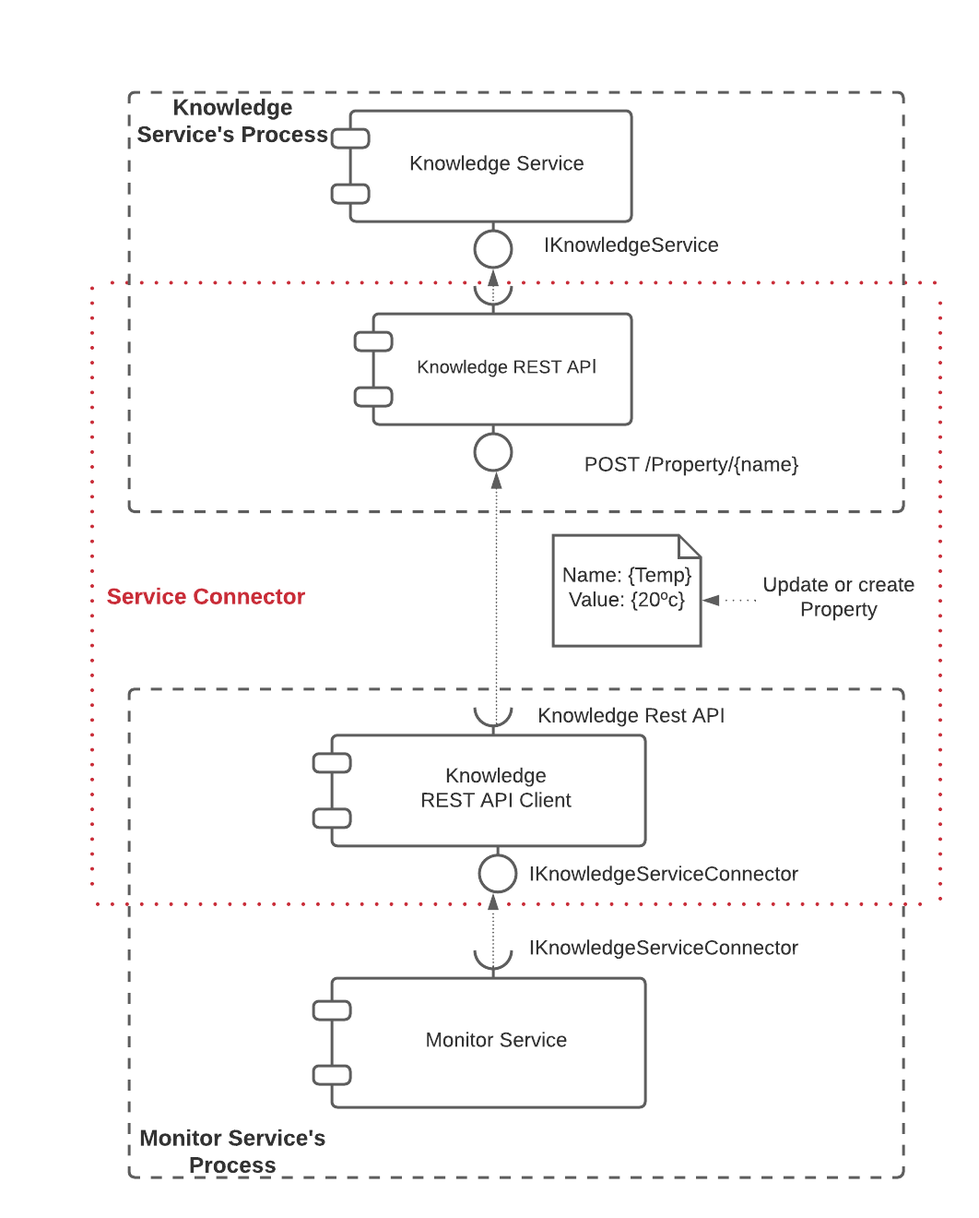
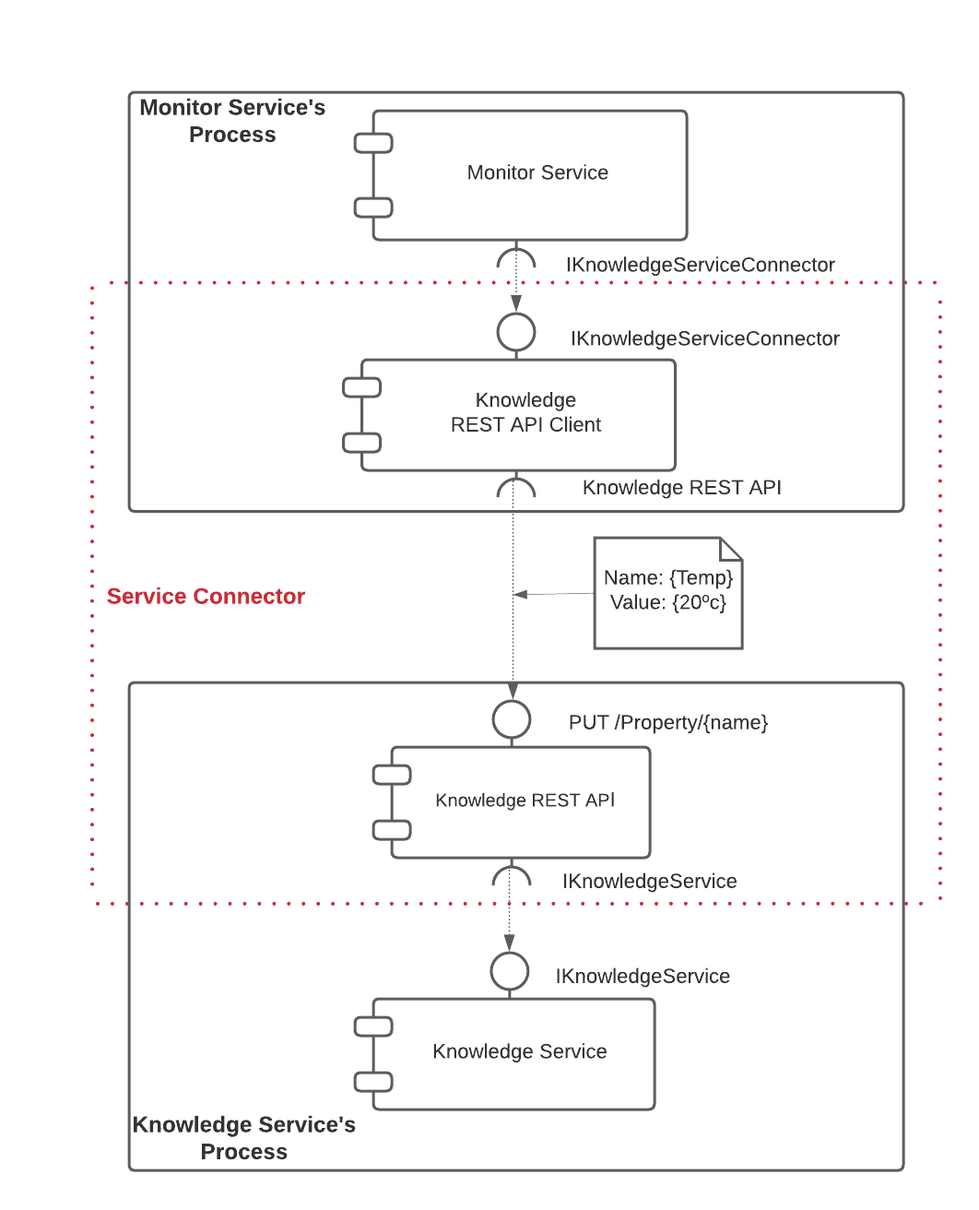
Revisar la sección de OPenAPI

diff --git a/docs/cap_diseño/diseño.tex b/docs/cap_diseño/diseño.tex
@@ -307,25 +307,27 @@ Ahora describiremos qué protocolo elegimos para cada mecanismo de comunicación
 
 \subsection{Peticiones síncronas}
 
-Comenzamos investigando las peticiones síncronas. Tomemos por ejemplo la comunicación entre el servicio de monitorización (\foreign{english}{monitoring service}) y el servicio de conocimiento (\foreign{english}{knowledge servic}). Recordemos que el servicio de conocimiento almacena todas las propiedades de adaptación. El resto de servicios del nivel del bucle necesitan consultarlas y actualizarlas durante su funcionamiento. En la figura \ref{fig:monitor-knowledge-initial} representamos inicialmente ambos componentes y un conector, sin especificar de qué tipo será.
+Comenzamos investigando el diseño de las peticiones síncronas. Tomemos por ejemplo la comunicación entre el servicio de monitorización (\foreign{english}{monitoring service}) y el servicio de conocimiento (\foreign{english}{knowledge servic}). Recordemos que el conocimiento almacena todas las propiedades de adaptación. El resto de servicios del nivel del bucle necesitan consultarlas y actualizarlas durante su funcionamiento. En la figura \ref{fig:monitor-knowledge-initial} representamos inicialmente ambos componentes y un conector, sin especificar de qué tipo será.
 
-% TODO: Cambiar por imagen de componentes, que ofrezcan y requieran interfaces.
-\begin{figure}[htb]
+% TODO: Centrar
+\begin{wrapfigure}{r}{0.38\linewidth}
   \centering
-  \includegraphics{cap_diseño/images/Monitor-Knowledge-Initial-Connector}
-  \caption{Representación inicial de la comunicación entre el servicio de monitorización y el de conocimiento. El conector no indica su tipo todavía.}
+  \vspace{10pt}
+  \includegraphics[scale=0.5]{cap_diseño/images/Monitor-Knowledge-Initial-Connector}
+  \caption{Representación inicial del conector entre el servicio de monitorización y el de conocimiento. De momento no indica más que la necesidad de comunicación.}
   \label{fig:monitor-knowledge-initial}
-\end{figure}
+  \vspace{2pt}
+\end{wrapfigure}
 
-El siguiente paso es identificar qué interacciones debe existir entre ambos componentes. En este caso, el servicio de monitorización debe contactar con el servicio de conocimiento para leer y actualizar el valor de las propiedades. Por tanto, existen operaciones de lectura y escritura de los datos.
+El siguiente paso consiste en identificar qué interacciones debe existir entre ambos componentes. En este caso, el servicio de monitorización debe poder leer y actualizar el valor de las propiedades. Por tanto, existen operaciones de lectura y escritura de los datos.
 
-Entre las cuatro opciones de tipos de conector podemos descartar inmediatamente la opción de GraphQL. Se trata de un conector más orientado a las consultas de datos. En nuestro caso, necesitamos ejecutar también escrituras. Aunque podría ser interesante para consultas más avanzadas, utilizar dos protocolos de comunicación en paralelo aumentaría la complejidad de la arquitectura.
+De entre los cuatro tipos de conectores, podemos descartar inmediatamente la opción de GraphQL. Se trata de un mecanismo más orientado a las consultas de datos. En nuestro caso, necesitamos ejecutar también escrituras. Aunque podríamos trabajar con dos protocolos de comunicación en paralelo, esto aumentaría la complejidad de la arquitectura. Además que el protocolo está más enfocado en consultas complejas. Como las propiedades se almacenan como pares clave - valor, sin relaciones, no lo consideramos necesario.
 
-También descartamos el \foreign{english}{broker} de mensajería. Como requerimos de lecturas de datos, nos convenía más recurrir al resto de patrones. Para obtener propiedades del conocimiento, resultaba más sencillo de implementar mediante comunicación síncrona.
+También descartamos emplear el \foreign{english}{broker} de mensajería. Como requerimos de lecturas de datos, nos convenía más recurrir a otros patrones. Para obtener propiedades del conocimiento, resultaba más sencillo de implementar mediante comunicación síncrona.
 
-Finalmente, hay que tener en cuenta que una de nuestras prioridades es la \textbf{interoperabilidad}: esta API estará expuesta ''hacia fuera'', a una capa más externa. Por tanto, tendremos clientes que nos contactarán. Potencialmente, de terceros. Prima por tanto la compatibilidad. Descartamos entonces RPC, dado que nos acoplaría a una tecnología concreta y a APIs no estándares.
+Finalmente, teníamos que decidir entre usar REST o RPC. Para tomar la decisión decidimos priorizar la \textbf{interoperabilidad}. Este componente estará expuesto ''hacia fuera'': expondrá su interfaz a la capa superior. Cualquier elemento que se encuentre en ella, podrá contactarlo. Potencialmente, estos podrían ser desarrollados por terceros. Para maximizar la compatibilidad, descartamos entonces RPC. Este protocolo nos hubiera acoplado a una tecnología concreta y a APIs no estándares.
 
-Nos terminamos decantando por el conector REST sobre HTTP. Implementamos ambas funciones mediante \foreign{english}{endpoints} HTTP. Su especificación se detalla a continuación en las tablas \ref{tab:especificacion-get-property} y \ref{tab:especificacion-put-property}.
+Nos terminamos decantando entonces por el conector REST. Implementamos ambas funciones de lectura y escritura mediante \foreign{english}{endpoints} HTTP. Su especificación se detalla a continuación en las tablas \ref{tab:especificacion-get-property} y \ref{tab:especificacion-put-property}. En ellas se incluye la operación y la ruta sobre que aplica.
 
 \newsavebox\getpropertyrequestbox
 \begin{lrbox}{\getpropertyrequestbox}
@@ -453,156 +455,19 @@ Una vez definida la interfaz que expondrá el servicio de conocimiento, nos qued
   \vspace{5pt}
 \end{wrapfigure}
 
-OpenAPI\footnote{Página oficial: \url{https://www.openapis.org/}} es un lenguaje estándar para describir APIs RESTful. Nos permite describir de forma estructurada las operaciones que ofrece un servicio manteniéndose agnóstico a su implementación. Esta descripción ayuda tanto a humanos como a computadoras a descubrir y utilizar las funcionalidades de la API. La OpenAPI Initiative (OAI) dirige el proyecto bajo el manto de la \emph{Linux Foundation}.
+OpenAPI\footnote{Página oficial: \url{https://www.openapis.org/}} es un lenguaje estándar para describir APIs REST. Nos permite especificar de forma estructurada las operaciones que ofrece un servicio, manteniéndose agnóstico a su implementación. Esta descripción ayuda tanto a humanos como a computadoras a descubrir y utilizar las funcionalidades de la API.\cite{openapi_initiativeOpenAPISpecificationV3} La OpenAPI Initiative (OAI) dirige el proyecto bajo el manto de la \emph{Linux Foundation}.
 
-Un documento OpenAPI describe el funcionamiento de la API y el conjunto de recursos que la componen. Describe las operaciones HTTP que podemos ejecutar sobre estos recursos, incluyendo las estructuras de datos que recibe o envía y los códigos de respuesta. Estos códigos indican al cliente el resultado de la ejecución de la operación. \cite{openapi_initiativeOpenAPISpecificationV3} Más adelante mostraremos un ejemplo, con el \textcolor{red}{fragmento} \ref{ls:openapi-get}.
+Un documento OpenAPI describe el funcionamiento de la API y el conjunto de recursos que la componen. Especifica las operaciones HTTP que podemos ejecutar sobre estos recursos y las estructuras de datos de entrada o salida. También se incluyen los códigos de respuesta de HTTP: códigos indican al cliente el resultado de la ejecución de la operación. \cite{openapi_initiativeOpenAPISpecificationV3} Más adelante, en el fragmento \ref{ls:openapi-get}, mostraremos un ejemplo de un documento típico.
 
-La especificación puede escribirse manualmente o puede generarse a partir de una implementación existente. Así, podemos desarrollar nuestro servicio en un determinado lenguaje y obtener su descripción en OpenAPI. Además, podemos aprovecharla en varios ámbitos del desarrollo gracias a la variedad de herramientas existentes: generación de documentación, generación de casos de prueba, identificar cambios incompatibles, etc. \cite{westerveldChapterOpenAPIAPI2021}
+La especificación puede escribirse manualmente o puede generarse a partir de una implementación existente. Así, podemos desarrollar primero nuestro servicio en un determinado lenguaje y obtener después su descripción en OpenAPI. Además, podemos aprovecharla en varios ámbitos del desarrollo gracias a la  \textbf{variedad de herramientas} existentes: generación de documentación, generación de casos de prueba, identificar cambios incompatibles, etc. \cite{westerveldChapterOpenAPIAPI2021}
 
-Uno de los casos de uso más interesantes es la generación de código a partir de la definición. Existen una serie de librerías\footnote{\url{https://github.com/OpenAPITools/openapi-generator}} capaces de generar clientes o servidores conforme a la especificación. Ofrecen soporte a una gran variedad de lenguajes: Java, C\#, JavaScript\dots En el caso del cliente, actúa como un proxy que nos abstrae de la lógica de comunicación con el servidor. Similar a lo descrito en el apartado de RPC.
+Uno de los casos de uso más interesantes es la \textbf{generación de código}. Existen una serie de librerías\footnote{\url{https://github.com/OpenAPITools/openapi-generator}} capaces de generar clientes o servidores conforme a la especificación. Ofrecen soporte a una gran variedad de lenguajes: Java, C\#, JavaScript... En el caso del \textbf{cliente}, actúa como un proxy que nos abstrae de la lógica de comunicación con el servidor. Similar a lo ya descrito en el apartado de RPC.
 
-Para el desarrollo de este trabajo, nos interesaba especialmente debido a las diferencias tecnológicas existentes: el bucle MAPE-K original estaba desarrollado en Java, pero el prototipo se desarrolló con el lenguaje C\# usando el \foreign{english}{framework} ASP.NET Core. Se tomó esta decisión para reducir el tiempo de aprendizaje y centrar los esfuerzos en la definición de la arquitectura del sistema.
-
-Gracias a la generación de código, se podría obtener la especificación del prototipo y generar los clientes o servidores en cualquier lenguaje soportado. Java incluido. El bucle MAPE-K original después podría ser refactorizado usando este código autogenerado.
-
-A continuación explicaremos cómo utilizamos OpenAPI. Para ello, continuaremos con el ejemplo del servicio de conocimiento que hemos descrito a lo largo de esta sección. Nos centraremos en la implementación de la operación para obtener una propiedad del conocimiento, descrita en la tabla \ref{tab:especificacion-get-property}.
-
-En el \textcolor{red}{fragmento} \ref{ls:csharp-get} podemos observar que se trata de un método C\# llamado \emph{GetProperty}. Su implementación es sencilla: busca en un diccionario la propiedad cuyo nombre se le pasa por parámetro. Si la encuentra, devuelve su valor con un código 200 OK. En caso contrario, devuelve un código de error que describe el motivo (formato de la petición incorrecto o no se ha encontrado la propiedad).
-
-Aparte de la implementación, podemos comprobar que el método cuenta con una serie de comentarios (líneas 1-8) y atributos (10-12). Esta documentación describe qué hace el método, sus entradas y posibles respuestas. OpenAPI es capaz de utilizarlos para generar una especificación más completa. Por tanto, resulta muy recomendable incluirlos.
-
-\begin{lstlisting}[language={[Sharp]C},caption={Implementación del método GetProperty decorado para generar la especificación OpenAPI.},captionpos=b, label=ls:csharp-get]
-/// <summary>
-///    Gets a property given its name.
-/// </summary>
-/// <param name="propertyName"> The name of the property to find. </param>
-/// <returns> An IActionResult with result of the query. </returns>
-/// <response code="200"> The property was found. Returns the value of the property. </response>
-/// <response code="404"> The property was not found. </response>
-/// <response code="400"> There was an error with the provided arguments. </response>
-[HttpGet("{propertyName}")]
-[ProducesResponseType(typeof(PropertyDTO), StatusCodes.Status200OK)]
-[ProducesResponseType(StatusCodes.Status404NotFound)]
-[ProducesResponseType(StatusCodes.Status400BadRequest)]
-public IActionResult GetProperty([FromRoute]string propertyName)
-{
-    if (string.IsNullOrEmpty(propertyName))
-    {
-        return BadRequest();
-    }
-
-    bool foundProperty = properties.TryGetValue(propertyName, out PropertyDTO property);
-
-    if (!foundProperty)
-    {
-        return NotFound();
-    }
-
-    return Ok(property);
-}
-\end{lstlisting}
-
-Haciendo uso de las librerías de OpenAPI, generamos la especificación a partir del servicio de conocimiento. En el \textcolor{red}{fragmento} \ref{ls:openapi-get}, podemos ver cómo se describe la operación en este estándar:
-
-\begin{lstlisting}[language=python,caption={Especificación OpenAPI del método para obtener una propiedad del conocimiento (\lstinline{GetProperty}).},captionpos=b, label=ls:openapi-get]
-"paths": {
-  "/Property/{propertyName}": {
-    "get": {
-      "tags": [
-        "Property"
-      ],
-      "summary": "Gets a property given its name.",
-      "parameters": [
-        {
-          "name": "propertyName",
-          "in": "path",
-          "description": "The name of the property to find.",
-          "required": true,
-          "schema": {
-            "type": "string"
-          }
-        }
-      ],
-      "responses": {
-        "200": {
-          "description": "The property was found. Returns the value of the property.",
-          "content": {
-            "application/json": {
-              "schema": {
-                "$ref": "#/components/schemas/PropertyDTO"
-              }
-            }
-          }
-        },
-        "404": {
-          "description": "The property was not found.",
-        },
-        "400": {
-          "description": "There was an error with the provided arguments.",
-        }
-      }
-    }
-  }
-\end{lstlisting}
-
-Podemos apreciar que en la ruta \emph{/Property/\{propertyName\}} está disponible una operación de tipo \emph{GET}. Esta acepta determinados parámetros y describe unas posibles respuestas. También aparece una referencia a otro esquema (línea 25), que representa la estructura de la respuesta en ese caso concreto. También aparecen los comentarios opcionales que indicamos en el \textcolor{red}{fragmento} \ref{ls:csharp-get}. Encontramos grandes similitudes con la especificación presentada en la tabla \ref{tab:especificacion-get-property}.
-
-%% TODO: ¿Eliminar?
-\textcolor{red}{Los convenios de los generadores de código de OpenAPI pueden no ser de nuestro agrado. Por ejemplo, pueden resultar muy verbosos o puede resultar muy pesado trabajar con DTOs directamente. Por suerte, tenemos varias alternativas para solucionarlo: Modificar las plantillas de generación de código. Al ser de código abierto, podríamos modificar las existentes o crear nuestras propias plantillas con nuestros propios convenios.}
-
-\textcolor{red}{Otra opción, más fácil de implementar, es desarrollar código por encima del API Client generado. Es el caso del servicio de Análisis. Como trabajar con DTOs directamente se hacía muy pesado (fragmento \ref{ls:analysis-api-client-original}), optamos por implementar un \foreign{english}{builder} de peticiones. Esto nos permitia configurar la petición de una forma más descriptiva para el usuario (fragmento \ref{ls:analysis-api-cliente-request-builder}):}
-
-\begin{lstlisting}[language={[Sharp]C},caption={Implementación de petición original. Trabajar con DTOs era muy verboso.},captionpos=b, label=ls:analysis-api-client-original]
-var changeRequests = new List<ServiceConfigurationDTO>
-{
-  new()
-  {
-    ServiceName = ClimatisationAirConditionerConstants.AppName,
-    IsDeployed = true,
-    ConfigurationProperties = new List<ConfigurationProperty>()
-    {
-      new()
-      {
-          Name = ClimatisationAirConditionerConstants.Configuration.Mode,
-          Value = AirConditioningMode.Cooling.ToString(),
-      },
-    },
-  },
-};
-
-var symptoms = new List<SymptomDTO> { new(SymptomName, "true") };
-
-var systemConfigurationChangeRequest = new SystemConfigurationChangeRequestDTO()
-{
-  ServiceConfiguration = changeRequests,
-  Symptoms = symptoms,
-  Timestamp = DateTime.UtcNow,
-};
-
-await _systemApi.SystemRequestChangePostAsync(
-  systemConfigurationChangeRequest,
-  CancellationToken.None);
-\end{lstlisting}
-
-
-\begin{lstlisting}[language={[Sharp]C},caption={Implementación de la misma petición siguiendo el patrón \emph{builder}.},captionpos=b, label=ls:analysis-api-cliente-request-builder]
-await _systemService.RequestChangeAsync(changeRequest =>
-{
-  changeRequest
-    .ForSymptom(TemperatureGreaterThanHotThreshold)
-    .WithService(ClimatisationAirConditionerConstants.AppName, service =>
-    {
-      service.MustBePresent()
-        .WithParameter(
-          ClimatisationAirConditionerConstants.Configuration.Mode,
-          AirConditioningMode.Cooling.ToString());
-    });
-});
-\end{lstlisting}
+Para el desarrollo de este trabajo, nos interesaba especialmente debido a las posibles diferencias tecnológicas entre microservicios. Cada uno de ellos puede implementarse utilizando distintos lenguajes o librerias dependiendo de la funcionalidad a ofrecer. Gracias a la generación de código, se podría obtener la especificación del servidor y generar los clientes o servidores en cualquiera de los lenguajes soportados.
 
 Para terminar, mostramos la estructura del conector que emplearemos para implementar las peticiones aparece en la figura \ref{fig:monitor-knowledge-connector-architecture}. La figura muestra como el servicio de monitorización contacta al de conocimiento para asignarle un valor a la propiedad \emph{Temp}.
 
-El conector, delimitado por una línea discontinua roja, está compuesto por dos elementos: una API REST y un cliente. Los otros dos grupos de elementos representan los procesos de los servicios de monitorización y conocimiento. El servicio de monitorización se comunica a con la API través del API Client, que está en su proceso actuando como \emph{proxy}.
+El conector, delimitado por una línea discontinua roja, está compuesto por dos elementos: una API REST y un cliente. Los otros dos grupos de elementos representan los procesos de los servicios de monitorización y conocimiento. El servicio de monitorización se comunica a con la API través del API Client, que está en su proceso actuando como \emph{proxy}. En el capítulo \ref{chap:implementación} describiremos una propuesta de su implementación.
 
 %%% TODO: Actualizar la imagen para que aparezca PUT en vez de POST.
 %%% TODO: ¿Darle la vuelta a los servicios? Monitor arriba y Knowledge abajo.

diff --git a/docs/cap_implementacion/implementacion.tex b/docs/cap_implementacion/implementacion.tex
@@ -4,6 +4,12 @@
 
 Una vez descrito el diseño del sistema, llegamos a la etapa de implementación. Uno de los objetivos del trabajo era verificar que la arquitectura elegida era viable. Para ello, optamos por implementar un sistema autoadaptativo muy básico. Tanto el diseño como la implementación se desarrollaron de forma incremental. Gracias a esto, el diseño fue evolucionando según detectábamos nuevas necesidades o problemas que no resolvía nuestra arquitectura.
 
+Por otro lado, el bucle MAPE-K original está desarrollado en Java. Pero, el prototipo que se desarrolló en este trabajo, fue implementado lenguaje C\# usando el \foreign{english}{framework} ASP.NET Core. Se tomó esta decisión para reducir el tiempo de aprendizaje y centrar los esfuerzos en la definición de la arquitectura del sistema.
+
+Gracias a la generación de código, se podría obtener la especificación del prototipo y generar los clientes o servidores en cualquier lenguaje soportado. Java incluido. El bucle MAPE-K original después podría ser refactorizado usando este código autogenerado.
+
+\textcolor{red}{Implementación: Al ser FAdA un sistema tan grande y en continuo desarrollo, vamos a optar por implementar una versión reducida de su funcionalidad en lugar de aplicarlo directamente sobre la plataforma. Nos basaremos en las interfaces de la funcionalidad clave del bucle y dxrlos manejadores adaptive ready. Así podemos verificar sobre un prototipo si los patrones de comunicación elegidos son los adecuados. Esto nos permite reducir el alcance del proyecto.}
+
 En este capitulo describiremos la implementación de los microservicios del nivel de conocimiento de conocimiento y del bucle. Dejaremos para más adelante, en el capitulo \ref{chap:caso_estudio}, la descripción de la implementación del nivel de solución y sistema manejado. En este capitulo ofrecemos una vista más concreta de la implementación, y las tecnologías empleadas. En el otro describiremos cómo encaja todo a nivel general y veremos cómo opera.
 
 La implementación se llevo a cabo en 4 hitos distintos, cada uno correspondiente a una etapa distinta del bucle:
@@ -46,6 +52,143 @@ El módulo del conocimiento es un servicio muy sencillo. Ofrece operaciones de l
 Por encima de este, tenemos el servicio de monitorización. En nuestra implementación, actúa como intermediario entre los monitores de la solución y el conocimiento. También se trata de un servicio sencillo. Ofrece operaciones útiles para los monitores de la solución: lectura de propiedades del conocimiento y otras para que los monitores reporten sus mediciones. De esta forma, los monitores de solución podrán informarse a partir del conocimiento para determinar si una medición es válida o no.
 
 \textcolor{red}{¿Añadir ejemplos de código? ¿Describir los componentes implementados? ¿Debería unificarse con el capítulo de implementación del caso de estudio?}
+
+
+A continuación explicaremos cómo utilizamos OpenAPI. Para ello, continuaremos con el ejemplo del servicio de conocimiento que hemos descrito a lo largo de esta sección. Nos centraremos en la implementación de la operación para obtener una propiedad del conocimiento, descrita en la tabla \ref{tab:especificacion-get-property}.
+
+En el \textcolor{red}{fragmento} \ref{ls:csharp-get} podemos observar que se trata de un método C\# llamado \emph{GetProperty}. Su implementación es sencilla: busca en un diccionario la propiedad cuyo nombre se le pasa por parámetro. Si la encuentra, devuelve su valor con un código 200 OK. En caso contrario, devuelve un código de error que describe el motivo (formato de la petición incorrecto o no se ha encontrado la propiedad).
+
+Aparte de la implementación, podemos comprobar que el método cuenta con una serie de comentarios (líneas 1-8) y atributos (10-12). Esta documentación describe qué hace el método, sus entradas y posibles respuestas. OpenAPI es capaz de utilizarlos para generar una especificación más completa. Por tanto, resulta muy recomendable incluirlos.
+
+\begin{lstlisting}[language={[Sharp]C},caption={Implementación del método GetProperty decorado para generar la especificación OpenAPI.},captionpos=b, label=ls:csharp-get]
+/// <summary>
+///    Gets a property given its name.
+/// </summary>
+/// <param name="propertyName"> The name of the property to find. </param>
+/// <returns> An IActionResult with result of the query. </returns>
+/// <response code="200"> The property was found. Returns the value of the property. </response>
+/// <response code="404"> The property was not found. </response>
+/// <response code="400"> There was an error with the provided arguments. </response>
+[HttpGet("{propertyName}")]
+[ProducesResponseType(typeof(PropertyDTO), StatusCodes.Status200OK)]
+[ProducesResponseType(StatusCodes.Status404NotFound)]
+[ProducesResponseType(StatusCodes.Status400BadRequest)]
+public IActionResult GetProperty([FromRoute]string propertyName)
+{
+    if (string.IsNullOrEmpty(propertyName))
+    {
+        return BadRequest();
+    }
+
+    bool foundProperty = properties.TryGetValue(propertyName, out PropertyDTO property);
+
+    if (!foundProperty)
+    {
+        return NotFound();
+    }
+
+    return Ok(property);
+}
+\end{lstlisting}
+
+Haciendo uso de las librerías de OpenAPI, generamos la especificación a partir del servicio de conocimiento. En el \textcolor{red}{fragmento} \ref{ls:openapi-get}, podemos ver cómo se describe la operación en este estándar:
+
+\begin{lstlisting}[language=python,caption={Especificación OpenAPI del método para obtener una propiedad del conocimiento (\lstinline{GetProperty}).},captionpos=b, label=ls:openapi-get]
+"paths": {
+  "/Property/{propertyName}": {
+    "get": {
+      "tags": [
+        "Property"
+      ],
+      "summary": "Gets a property given its name.",
+      "parameters": [
+        {
+          "name": "propertyName",
+          "in": "path",
+          "description": "The name of the property to find.",
+          "required": true,
+          "schema": {
+            "type": "string"
+          }
+        }
+      ],
+      "responses": {
+        "200": {
+          "description": "The property was found. Returns the value of the property.",
+          "content": {
+            "application/json": {
+              "schema": {
+                "$ref": "#/components/schemas/PropertyDTO"
+              }
+            }
+          }
+        },
+        "404": {
+          "description": "The property was not found.",
+        },
+        "400": {
+          "description": "There was an error with the provided arguments.",
+        }
+      }
+    }
+  }
+\end{lstlisting}
+
+Podemos apreciar que en la ruta \emph{/Property/\{propertyName\}} está disponible una operación de tipo \emph{GET}. Esta acepta determinados parámetros y describe unas posibles respuestas. También aparece una referencia a otro esquema (línea 25), que representa la estructura de la respuesta en ese caso concreto. También aparecen los comentarios opcionales que indicamos en el \textcolor{red}{fragmento} \ref{ls:csharp-get}. Encontramos grandes similitudes con la especificación presentada en la tabla \ref{tab:especificacion-get-property}.
+
+%% TODO: ¿Eliminar?
+\textcolor{red}{Los convenios de los generadores de código de OpenAPI pueden no ser de nuestro agrado. Por ejemplo, pueden resultar muy verbosos o puede resultar muy pesado trabajar con DTOs directamente. Por suerte, tenemos varias alternativas para solucionarlo: Modificar las plantillas de generación de código. Al ser de código abierto, podríamos modificar las existentes o crear nuestras propias plantillas con nuestros propios convenios.}
+
+\textcolor{red}{Otra opción, más fácil de implementar, es desarrollar código por encima del API Client generado. Es el caso del servicio de Análisis. Como trabajar con DTOs directamente se hacía muy pesado (fragmento \ref{ls:analysis-api-client-original}), optamos por implementar un \foreign{english}{builder} de peticiones. Esto nos permitia configurar la petición de una forma más descriptiva para el usuario (fragmento \ref{ls:analysis-api-cliente-request-builder}):}
+
+\begin{lstlisting}[language={[Sharp]C},caption={Implementación de petición original. Trabajar con DTOs era muy verboso.},captionpos=b, label=ls:analysis-api-client-original]
+var changeRequests = new List<ServiceConfigurationDTO>
+{
+  new()
+  {
+    ServiceName = ClimatisationAirConditionerConstants.AppName,
+    IsDeployed = true,
+    ConfigurationProperties = new List<ConfigurationProperty>()
+    {
+      new()
+      {
+          Name = ClimatisationAirConditionerConstants.Configuration.Mode,
+          Value = AirConditioningMode.Cooling.ToString(),
+      },
+    },
+  },
+};
+
+var symptoms = new List<SymptomDTO> { new(SymptomName, "true") };
+
+var systemConfigurationChangeRequest = new SystemConfigurationChangeRequestDTO()
+{
+  ServiceConfiguration = changeRequests,
+  Symptoms = symptoms,
+  Timestamp = DateTime.UtcNow,
+};
+
+await _systemApi.SystemRequestChangePostAsync(
+  systemConfigurationChangeRequest,
+  CancellationToken.None);
+\end{lstlisting}
+
+
+\begin{lstlisting}[language={[Sharp]C},caption={Implementación de la misma petición siguiendo el patrón \emph{builder}.},captionpos=b, label=ls:analysis-api-cliente-request-builder]
+await _systemService.RequestChangeAsync(changeRequest =>
+{
+  changeRequest
+    .ForSymptom(TemperatureGreaterThanHotThreshold)
+    .WithService(ClimatisationAirConditionerConstants.AppName, service =>
+    {
+      service.MustBePresent()
+        .WithParameter(
+          ClimatisationAirConditionerConstants.Configuration.Mode,
+          AirConditioningMode.Cooling.ToString());
+    });
+});
+\end{lstlisting}
+
 
 \section{Servicio de análisis y reglas}
 \label{sec:implementacion-modulo-reglas}
